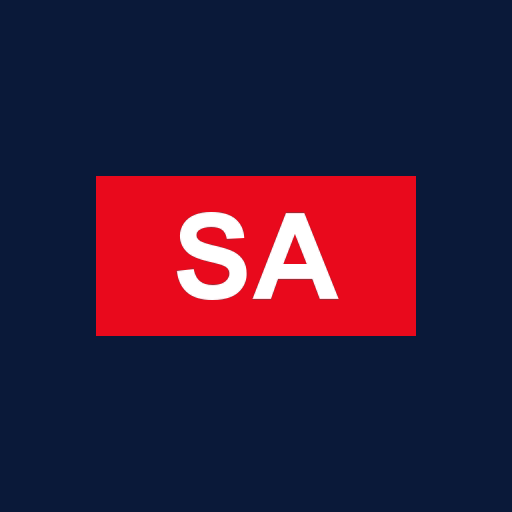
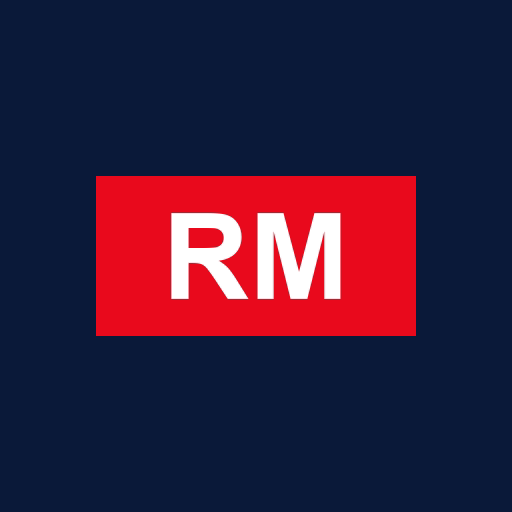
Nama app: Toyota Loan Calculator; actions v5 / Node 22

Changed region(s): [[0.3125, 0.4062, 0.6875, 0.5938]]

diff --git a/index.html b/index.html
@@ -3,18 +3,18 @@
 <head>
 <meta charset="utf-8">
 <meta name="viewport" content="width=device-width, initial-scale=1, viewport-fit=cover">
-<title>SA Toolkit</title>
+<title>Toyota Loan Calculator</title>
 <meta name="theme-color" content="#0b1b3a">
 <link rel="manifest" href="manifest.json">
 <link rel="icon" href="assets/icon.svg">
 <link rel="apple-touch-icon" href="assets/icon-192.png">
 <link rel="preconnect" href="https://fonts.googleapis.com">
 <link href="https://fonts.googleapis.com/css2?family=Plus+Jakarta+Sans:wght@400;600;700;800&display=swap" rel="stylesheet">
-<link rel="stylesheet" href="style.css?v=11">
+<link rel="stylesheet" href="style.css?v=12">
 </head>
 <body>
 <header class="top">
-  <div class="brand"><span class="logo">SA</span> Toolkit</div>
+  <div class="brand"><span class="logo">RM</span> Toyota Loan Calculator</div>
   <button class="chip" id="lang" type="button">EN</button>
 </header>
 
@@ -29,7 +29,7 @@
 </nav>
 
 <div id="toast" class="toast"></div>
-<script src="data.js?v=11"></script>
-<script src="app.js?v=11"></script>
+<script src="data.js?v=12"></script>
+<script src="app.js?v=12"></script>
 </body>
 </html>

diff --git a/style.css b/style.css
@@ -12,7 +12,7 @@ html,body{margin:0}
 body{background:var(--bg);color:var(--ink);font-family:"Plus Jakarta Sans",system-ui,sans-serif;font-size:15px;padding-bottom:88px}
 a{color:inherit}
 .top{position:sticky;top:0;z-index:5;display:flex;justify-content:space-between;align-items:center;padding:14px 16px;background:var(--bg)}
-.brand{font-weight:800;font-size:18px;display:flex;align-items:center;gap:8px}
+.brand{font-weight:800;font-size:17px;white-space:nowrap;display:flex;align-items:center;gap:8px}
 .logo{background:var(--red);color:#fff;border-radius:8px;padding:3px 7px;font-size:14px}
 .chip{cursor:pointer;font:inherit;font-weight:700;color:var(--ink);border:1px solid var(--line);background:var(--card);border-radius:999px;padding:6px 12px;font-weight:700;font-size:13px}
 main{max-width:560px;margin:0 auto;padding:0 16px}

diff --git a/README.md b/README.md
@@ -1,4 +1,4 @@
-# SA Toolkit
+# Toyota Loan Calculator
 
 Alat percuma untuk Sales Advisor Toyota (static, GitHub Pages):
 
